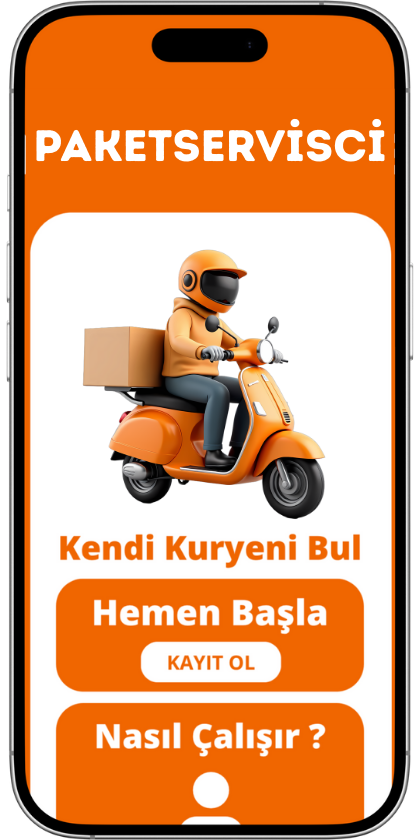
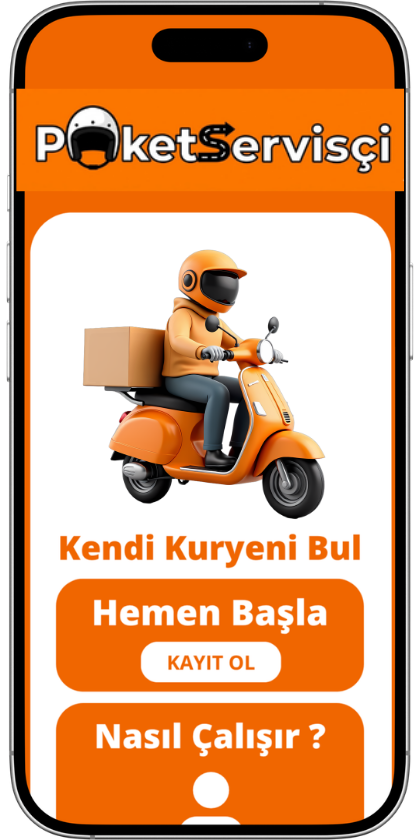
numara değişti , fotoğraf değişti

Changed region(s): [[0.031, 0.0929, 0.9595, 0.2476]]

diff --git a/app/ticari-ileti-izni/page.tsx b/app/ticari-ileti-izni/page.tsx
@@ -87,7 +87,7 @@ export default function TicariIletiIzniPage() {
                   <li><strong>E-posta Linki:</strong> Gönderilen e-postaların altındaki "Abonelikten Çık" bağlantısını kullanma</li>
                   <li><strong>SMS RED:</strong> Aldığınız SMS'e "RED [Marka Kodu]" yazarak kısa mesaj gönderme</li>
                   <li><strong>Profil Ayarları:</strong> Hesap ayarlarınızdan ticari ileti tercihlerini güncelleme</li>
-                  <li><strong>İletişim:</strong> <Link href="/iletisim" className="text-[#ff7a00] underline hover:text-[#ff6a00]">İletişim sayfamızdan</Link> veya kvkk@paketservisci.com adresine yazarak</li>
+                  <li><strong>İletişim:</strong> <Link href="/iletisim" className="text-[#ff7a00] underline hover:text-[#ff6a00]">İletişim sayfamızdan</Link> veya info@paketservisci.com adresine yazarak</li>
                 </ul>
                 <p>
                   <strong>3.3.</strong> İzin geri alındığında, en geç <strong>3 iş günü</strong> içinde ticari ileti gönderimi durdurulur ve İYS sistemine bildirilir.
@@ -230,7 +230,7 @@ export default function TicariIletiIzniPage() {
                   <strong>8.2.</strong> Hukuka aykırı ticari elektronik ileti gönderildiğini düşünüyorsanız:
                 </p>
                 <ul className="list-disc list-inside ml-4 space-y-1">
-                  <li>Bizimle iletişime geçebilirsiniz: kvkk@paketservisci.com</li>
+                  <li>Bizimle iletişime geçebilirsiniz: info@paketservisci.com</li>
                   <li><strong>Ticaret Bakanlığı Tüketici Hakem Heyetleri</strong>'ne başvurabilirsiniz</li>
                   <li><strong>İYS</strong> üzerinden şikayet oluşturabilirsiniz</li>
                 </ul>
@@ -249,8 +249,8 @@ export default function TicariIletiIzniPage() {
                 <p>Ticari ileti izninizi yönetmek veya sorularınız için:</p>
                 <div className="bg-[#ff7a00]/10 p-6 rounded-lg border-2 border-[#ff7a00]">
                   <ul className="list-none space-y-2">
-                    <li className="flex items-center gap-2"><svg className="w-4 h-4 text-[#ff7a00] shrink-0" fill="none" stroke="currentColor" viewBox="0 0 24 24"><path strokeLinecap="round" strokeLinejoin="round" strokeWidth={2} d="M3 8l7.89 5.26a2 2 0 002.22 0L21 8M5 19h14a2 2 0 002-2V7a2 2 0 00-2-2H5a2 2 0 00-2 2v10a2 2 0 002 2z" /></svg><strong>E-posta:</strong> kvkk@paketservisci.com</li>
-                    <li className="flex items-center gap-2"><svg className="w-4 h-4 text-[#ff7a00] shrink-0" fill="none" stroke="currentColor" viewBox="0 0 24 24"><path strokeLinecap="round" strokeLinejoin="round" strokeWidth={2} d="M3 5a2 2 0 012-2h3.28a1 1 0 01.948.684l1.498 4.493a1 1 0 01-.502 1.21l-2.257 1.13a11.042 11.042 0 005.516 5.516l1.13-2.257a1 1 0 011.21-.502l4.493 1.498a1 1 0 01.684.949V19a2 2 0 01-2 2h-1C9.716 21 3 14.284 3 6V5z" /></svg><strong>Telefon:</strong> +90 555 123 45 67</li>
+                    <li className="flex items-center gap-2"><svg className="w-4 h-4 text-[#ff7a00] shrink-0" fill="none" stroke="currentColor" viewBox="0 0 24 24"><path strokeLinecap="round" strokeLinejoin="round" strokeWidth={2} d="M3 8l7.89 5.26a2 2 0 002.22 0L21 8M5 19h14a2 2 0 002-2V7a2 2 0 00-2-2H5a2 2 0 00-2 2v10a2 2 0 002 2z" /></svg><strong>E-posta:</strong> info@paketservisci.com</li>
+                    <li className="flex items-center gap-2"><svg className="w-4 h-4 text-[#ff7a00] shrink-0" fill="none" stroke="currentColor" viewBox="0 0 24 24"><path strokeLinecap="round" strokeLinejoin="round" strokeWidth={2} d="M3 5a2 2 0 012-2h3.28a1 1 0 01.948.684l1.498 4.493a1 1 0 01-.502 1.21l-2.257 1.13a11.042 11.042 0 005.516 5.516l1.13-2.257a1 1 0 011.21-.502l4.493 1.498a1 1 0 01.684.949V19a2 2 0 01-2 2h-1C9.716 21 3 14.284 3 6V5z" /></svg><strong>Telefon:</strong> +90 542 747 05 82</li>
                     <li className="flex items-center gap-2"><svg className="w-4 h-4 text-[#ff7a00] shrink-0" fill="none" stroke="currentColor" viewBox="0 0 24 24"><path strokeLinecap="round" strokeLinejoin="round" strokeWidth={2} d="M21 12a9 9 0 01-9 9m9-9a9 9 0 00-9-9m9 9H3m9 9a9 9 0 01-9-9m9 9c1.657 0 3-4.03 3-9s-1.343-9-3-9m0 18c-1.657 0-3-4.03-3-9s1.343-9 3-9m-9 9a9 9 0 019-9" /></svg><strong>İletişim Formu:</strong> <Link href="/iletisim" className="text-[#ff7a00] underline hover:text-[#ff6a00]">www.paketservisci.com/iletisim</Link></li>
                     <li className="flex items-center gap-2"><svg className="w-4 h-4 text-[#ff7a00] shrink-0" fill="none" stroke="currentColor" viewBox="0 0 24 24"><path strokeLinecap="round" strokeLinejoin="round" strokeWidth={2} d="M10.325 4.317c.426-1.756 2.924-1.756 3.35 0a1.724 1.724 0 002.573 1.066c1.543-.94 3.31.826 2.37 2.37a1.724 1.724 0 001.065 2.572c1.756.426 1.756 2.924 0 3.35a1.724 1.724 0 00-1.066 2.573c.94 1.543-.826 3.31-2.37 2.37a1.724 1.724 0 00-2.572 1.065c-.426 1.756-2.924 1.756-3.35 0a1.724 1.724 0 00-2.573-1.066c-1.543.94-3.31-.826-2.37-2.37a1.724 1.724 0 00-1.065-2.572c-1.756-.426-1.756-2.924 0-3.35a1.724 1.724 0 001.066-2.573c-.94-1.543.826-3.31 2.37-2.37.996.608 2.296.07 2.572-1.065z" /><path strokeLinecap="round" strokeLinejoin="round" strokeWidth={2} d="M15 12a3 3 0 11-6 0 3 3 0 016 0z" /></svg><strong>Hesap Ayarları:</strong> Profil ayarlarınızdan "Bildirim Tercihleri"</li>
                   </ul>

diff --git a/app/gizlilik-politikasi/page.tsx b/app/gizlilik-politikasi/page.tsx
@@ -42,7 +42,7 @@ export default function GizlilikPolitikasiPage() {
                   <strong>1.1.</strong> 6698 sayılı Kişisel Verilerin Korunması Kanunu ("KVKK") uyarınca, kişisel verilerinizin veri sorumlusu <strong>PaketServisci</strong>'dir.
                 </p>
                 <p>
-                  <strong>E-posta:</strong> destek@paketservisci.com
+                  <strong>E-posta:</strong> info@paketservisci.com
                 </p>
                 <p>
                   <strong>1.2.</strong> Kişisel verileriniz, KVKK ve ilgili mevzuat kapsamında işlenmekte ve korunmaktadır.
@@ -236,7 +236,7 @@ export default function GizlilikPolitikasiPage() {
                   <li><strong>Otomatik Karar Alma İtiraz:</strong> Tamamen otomatik sistemlerle verilen kararlara itiraz etme</li>
                 </ul>
                 <p>
-                  <strong>Başvuru Yöntemi:</strong> Haklarınızı kullanmak için destek@paketservisci.com adresine yazılı veya <Link href="/iletisim" className="text-[#ff7a00] underline hover:text-[#ff6a00]">iletişim formu</Link> ile başvurabilirsiniz. Başvurularınız 30 gün içinde ücretsiz olarak yanıtlanır.
+                  <strong>Başvuru Yöntemi:</strong> Haklarınızı kullanmak için info@paketservisci.com adresine yazılı veya <Link href="/iletisim" className="text-[#ff7a00] underline hover:text-[#ff6a00]">iletişim formu</Link> ile başvurabilirsiniz. Başvurularınız 30 gün içinde ücretsiz olarak yanıtlanır.
                 </p>
               </div>
             </section>
@@ -285,8 +285,8 @@ export default function GizlilikPolitikasiPage() {
                 </p>
                 <ul className="list-none ml-4 space-y-2">
                   <li><strong>Veri Sorumlusu:</strong> PaketServisci</li>
-                  <li><strong>E-posta:</strong> destek@paketservisci.com</li>
-                  <li><strong>Telefon:</strong> +90 555 123 45 67</li>
+                  <li><strong>E-posta:</strong> info@paketservisci.com</li>
+                  <li><strong>Telefon:</strong> +90 542 747 05 82</li>
                   <li><strong>İletişim:</strong> <Link href="/iletisim" className="text-[#ff7a00] underline hover:text-[#ff6a00]">paketservisci.com/iletisim</Link></li>
                 </ul>
               </div>

diff --git a/app/kvkk-aydinlatma/page.tsx b/app/kvkk-aydinlatma/page.tsx
@@ -42,7 +42,7 @@ export default function KVKKAydinlatmaPage() {
                   6698 sayılı Kişisel Verilerin Korunması Kanunu (&quot;KVKK&quot;) uyarınca, kişisel verilerinizin veri sorumlusu <strong>PaketServisci</strong>&apos;dir.
                 </p>
                 <p>
-                  <strong>E-posta:</strong> destek@paketservisci.com
+                  <strong>E-posta:</strong> info@paketservisci.com
                 </p>
               </div>
             </section>
@@ -155,7 +155,7 @@ export default function KVKKAydinlatmaPage() {
                   Yukarıda belirtilen haklarınızı kullanmak için aşağıdaki kanallardan bize başvurabilirsiniz:
                 </p>
                 <ul className="list-none ml-4 space-y-2">
-                  <li><strong>E-posta:</strong> destek@paketservisci.com</li>
+                  <li><strong>E-posta:</strong> info@paketservisci.com</li>
                   <li><strong>İletişim Formu:</strong> <Link href="/iletisim" className="text-[#ff7a00] underline hover:text-[#ff6a00]">paketservisci.com/iletisim</Link></li>
                 </ul>
                 <p>

diff --git a/app/iletisim/page.tsx b/app/iletisim/page.tsx
@@ -7,7 +7,7 @@ import { UnifiedHeader } from "../_components/UnifiedHeader";
 import { Footer } from "../_components/Footer";
 
 export default function IletisimPage() {
-  const whatsappNumber = "905551234567"; // Numaranızı buraya ekleyin (ülke kodu dahil, + işareti olmadan)
+  const whatsappNumber = "905427470582";
   const whatsappMessage = encodeURIComponent("Merhaba, PaketServisci hakkında bilgi almak istiyorum.");
   const whatsappLink = `https://wa.me/${whatsappNumber}?text=${whatsappMessage}`;
 
@@ -54,8 +54,8 @@ export default function IletisimPage() {
                 </div>
                 <div>
                   <h3 className="font-semibold text-neutral-900 mb-1">Telefon</h3>
-                  <a href="tel:+905551234567" className="text-neutral-600 hover:text-[#ff7a00] transition-colors">
-                    +90 555 123 45 67
+                  <a href="tel:+905427470582" className="text-neutral-600 hover:text-[#ff7a00] transition-colors">
+                    +90 542 747 05 82
                   </a>
                 </div>
               </div>

diff --git a/app/kullanim-sartlari/page.tsx b/app/kullanim-sartlari/page.tsx
@@ -215,8 +215,8 @@ export default function KullanimSartlariPage() {
                   Bu Kullanım Şartları hakkında sorularınız için bizimle iletişime geçebilirsiniz:
                 </p>
                 <ul className="list-none ml-4 space-y-2">
-                  <li><strong>E-posta:</strong> destek@paketservisci.com</li>
-                  <li><strong>Telefon:</strong> +90 555 123 45 67</li>
+                  <li><strong>E-posta:</strong> info@paketservisci.com</li>
+                  <li><strong>Telefon:</strong> +90 542 747 05 82</li>
                   <li><strong>İletişim Sayfası:</strong> <Link href="/iletisim" className="text-[#ff7a00] underline hover:text-[#ff6a00]">paketservisci.com/iletisim</Link></li>
                 </ul>
               </div>
